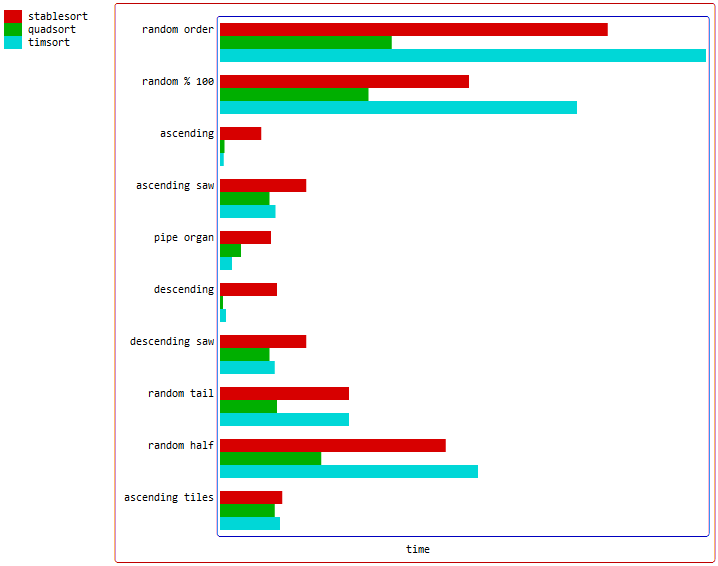
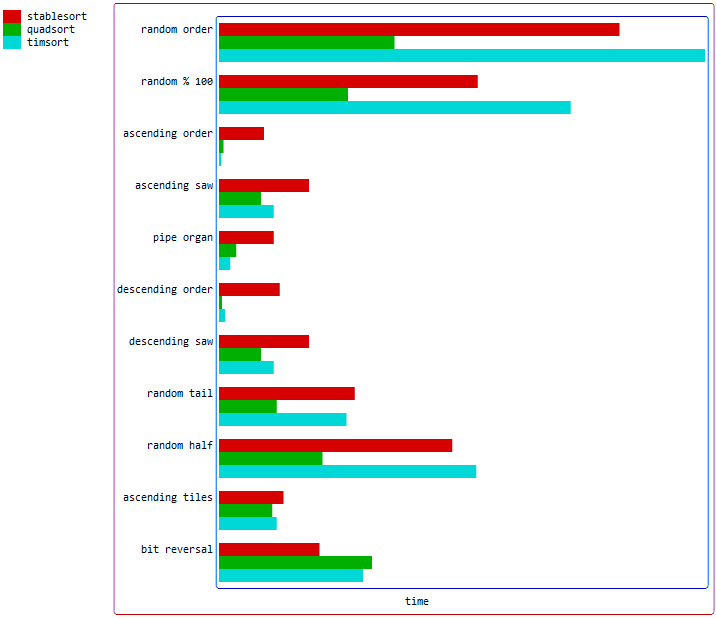
1.1.5.3

Changed region(s): [[0.1536, 0.0, 1.0, 1.0], [0.0, 0.0, 0.1229, 0.0901]]

diff --git a/src/quadsort.c b/src/quadsort.c
@@ -421,71 +421,78 @@ size_t FUNC(quad_swap)(VAR *array, size_t nmemb, CMPFUNC *cmp)
 
 // quad merge support routines
 
-void FUNC(forward_merge)(VAR *dest, VAR *from, size_t block, CMPFUNC *cmp)
+void FUNC(galloping_merge)(VAR *dest, VAR *from, size_t block, CMPFUNC *cmp)
 {
-	VAR *ptl, *ptr, *m, *e; // left, right, middle, end
-	size_t x, y;
+	VAR *ptl, *tpl, *ptr, *tpr, *ptd, *tpd;
+	size_t loop, x, y;
 
 	ptl = from;
 	ptr = from + block;
-	m = ptr - 1;
-	e = ptr + block - 1;
+	tpl = ptr - 1;
+	tpr = ptr + block - 1;
 
-	if (cmp(m, e - block / 4) <= 0)
+	if (cmp(ptl + 15, ptr) > 0 && cmp(ptl, ptr + 15) <= 0 && cmp(tpl, tpr - 15) > 0 && cmp(tpl - 15, tpr) <= 0)
 	{
-		while (ptl < m - 1)
-		{
-			if (cmp(ptl + 1, ptr) <= 0)
-			{
-				*dest++ = *ptl++; *dest++ = *ptl++;
-			}
-			else if (cmp(ptl, ptr + 1) > 0)
-			{
-				*dest++ = *ptr++; *dest++ = *ptr++;
-			}
-			else 
-			{
-				x = cmp(ptl, ptr) <= 0; y = !x; dest[x] = *ptr; ptr += 1; dest[y] = *ptl; ptl += 1; dest += 2;
-				x = cmp(ptl, ptr) <= 0; y = !x; dest[x] = *ptr; ptr += y; dest[y] = *ptl; ptl += x; dest++;
-			}
-		}
-
-		while (ptl <= m)
-		{
-			*dest++ = cmp(ptl, ptr) <= 0 ? *ptl++ : *ptr++;
-		}
-
-		do *dest++ = *ptr++; while (ptr <= e);
+		return FUNC(parity_merge)(dest, from, block, block * 2, cmp);
 	}
-	else if (cmp(m - block / 4, e) > 0)
+
+	ptd = dest;
+	tpd = dest + 2 * block - 1;
+
+	while (tpl - ptl > 8 && tpr - ptr > 8)
 	{
-		while (ptr < e - 1)
+		if (cmp(ptl + 7, ptr) <= 0)
 		{
-			if (cmp(ptl, ptr + 1) > 0)
-			{
-				*dest++ = *ptr++; *dest++ = *ptr++;
-			}
-			else if (cmp(ptl + 1, ptr) <= 0)
-			{
-				*dest++ = *ptl++; *dest++ = *ptl++;
-			}
-			else 
-			{
-				x = cmp(ptl, ptr) <= 0; y = !x; dest[x] = *ptr; ptr += 1; dest[y] = *ptl; ptl += 1; dest += 2;
-				x = cmp(ptl, ptr) <= 0; y = !x; dest[x] = *ptr; ptr += y; dest[y] = *ptl; ptl += x; dest++;
-			}
+			loop = 8; do *ptd++ = *ptl++; while (--loop); continue;
 		}
-
-		while (ptr <= e)
+		if (cmp(ptl, ptr + 7) > 0)
 		{
-			*dest++ = cmp(ptl, ptr) > 0 ? *ptr++ : *ptl++;
+			loop = 8; do *ptd++ = *ptr++; while (--loop); continue;
 		}
-
-		do *dest++ = *ptl++; while (ptl <= m);
+		if (cmp(tpl, tpr - 7) <= 0)
+		{
+			loop = 8; do *tpd-- = *tpr--; while (--loop); continue;
+		}
+		if (cmp(tpl - 7, tpr) > 0)
+		{
+			loop = 8; do *tpd-- = *tpl--; while (--loop); continue;
+		}
+		loop = 8; do
+		{
+			x = cmp(ptl, ptr) <= 0; y = !x; ptd[x] = *ptr; ptr += y; ptd[y] = *ptl; ptl += x; ptd++;
+			x = cmp(tpl, tpr) <= 0; y = !x; tpd--; tpd[x] = *tpr; tpr -= x; tpd[y] = *tpl; tpl -= y;
+		}
+		while (--loop);
 	}
-	else
+
+	while (tpl - ptl > 1 && tpr - ptr > 1)
 	{
-		FUNC(parity_merge)(dest, from, block, block * 2, cmp);
+		if (cmp(ptl + 1, ptr) <= 0)
+		{
+			*ptd++ = *ptl++; *ptd++ = *ptl++;
+		}
+		else if (cmp(ptl, ptr + 1) > 0)
+		{
+			*ptd++ = *ptr++; *ptd++ = *ptr++;
+		}
+		else 
+		{
+			x = cmp(ptl, ptr) <= 0; y = !x; ptd[x] = *ptr; ptr += 1; ptd[y] = *ptl; ptl += 1; ptd += 2;
+			x = cmp(ptl, ptr) <= 0; y = !x; ptd[x] = *ptr; ptr += y; ptd[y] = *ptl; ptl += x; ptd++;
+		}
+	}
+
+	while (ptl <= tpl && ptr <= tpr)
+	{
+		*ptd++ = cmp(ptl, ptr) <= 0 ? *ptl++ : *ptr++;
+	}
+	while (ptl <= tpl)
+	{
+		*ptd++ = *ptl++;
+	}
+	while (ptr <= tpr)
+	{
+		*ptd++ = *ptr++;
 	}
 }
 
@@ -496,7 +503,7 @@ void FUNC(forward_merge)(VAR *dest, VAR *from, size_t block, CMPFUNC *cmp)
 
 void FUNC(quad_merge_block)(VAR *array, VAR *swap, size_t block, CMPFUNC *cmp)
 {
-	register VAR *pts, *c, *c_max;
+	VAR *pts, *c, *c_max;
 	size_t block_x_2 = block * 2;
 
 	c_max = array + block;
@@ -523,7 +530,7 @@ void FUNC(quad_merge_block)(VAR *array, VAR *swap, size_t block, CMPFUNC *cmp)
 
 			do *pts++ = *c++; while (c < c_max); // step 2
 
-			return FUNC(forward_merge)(array, swap, block_x_2, cmp); // step 3
+			return FUNC(galloping_merge)(array, swap, block_x_2, cmp); // step 3
 		}
 		pts = swap;
 
@@ -534,16 +541,16 @@ void FUNC(quad_merge_block)(VAR *array, VAR *swap, size_t block, CMPFUNC *cmp)
 	}
 	else
 	{
-		FUNC(forward_merge)(swap, array, block, cmp); // step 1
+		FUNC(galloping_merge)(swap, array, block, cmp); // step 1
 	}
-	FUNC(forward_merge)(swap + block_x_2, array + block_x_2, block, cmp); // step 2
+	FUNC(galloping_merge)(swap + block_x_2, array + block_x_2, block, cmp); // step 2
 
-	FUNC(forward_merge)(array, swap, block_x_2, cmp); // step 3
+	FUNC(galloping_merge)(array, swap, block_x_2, cmp); // step 3
 }
 
 size_t FUNC(quad_merge)(VAR *array, VAR *swap, size_t swap_size, size_t nmemb, size_t block, CMPFUNC *cmp)
 {
-	register VAR *pta, *pte;
+	VAR *pta, *pte;
 
 	pte = array + nmemb;
 
@@ -661,7 +668,7 @@ void FUNC(partial_backward_merge)(VAR *array, VAR *swap, size_t nmemb, size_t bl
 
 void FUNC(tail_merge)(VAR *array, VAR *swap, size_t swap_size, size_t nmemb, size_t block, CMPFUNC *cmp)
 {
-	register VAR *pta, *pte;
+	VAR *pta, *pte;
 
 	pte = array + nmemb;
 
